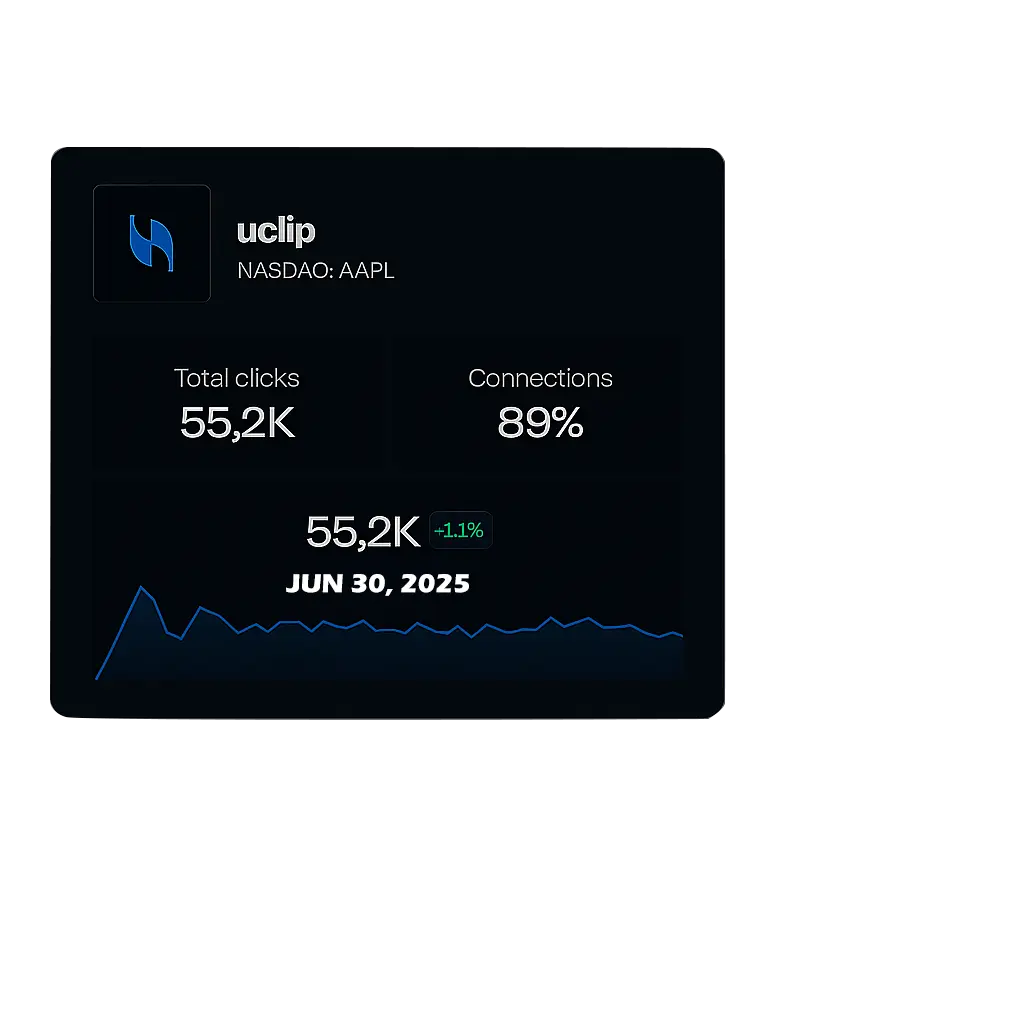
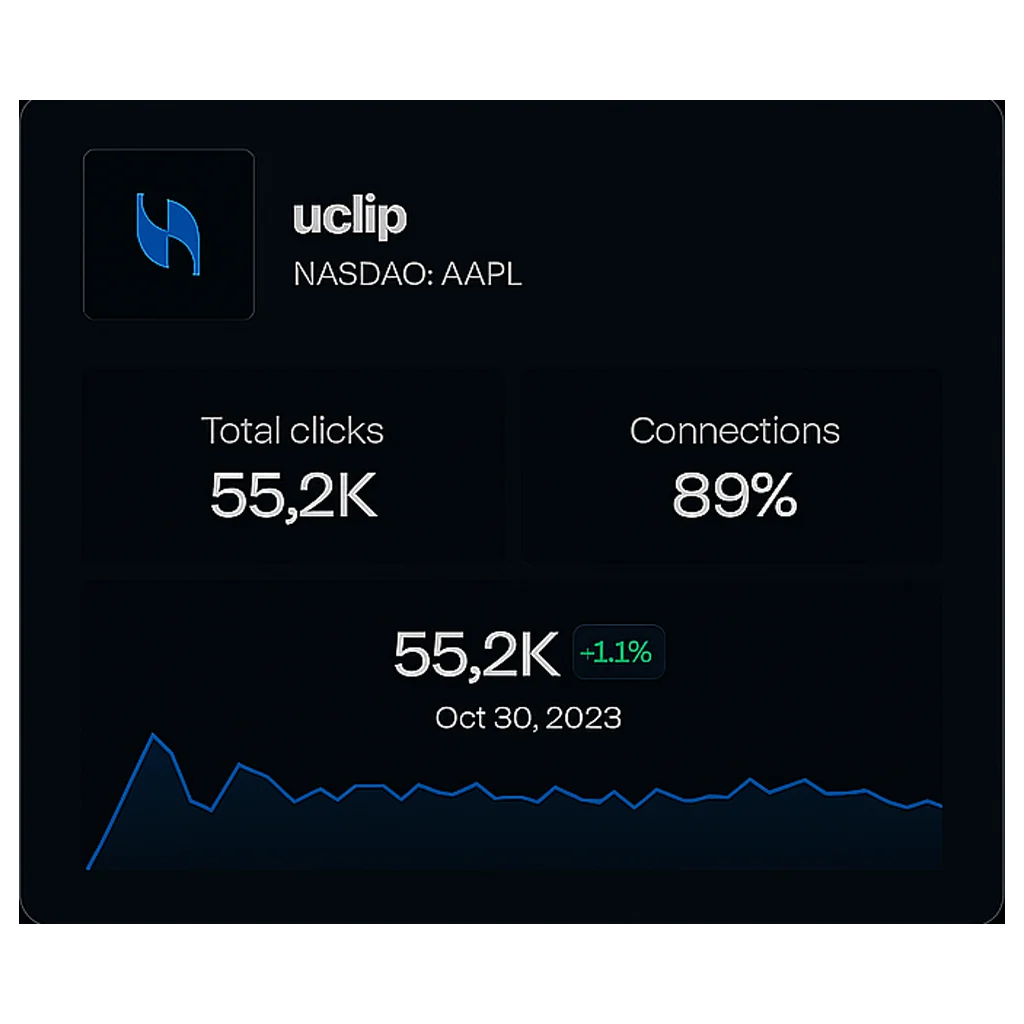
add new infoblock

diff --git a/client/src/components/HeroPage.jsx b/client/src/components/HeroPage.jsx
@@ -2,11 +2,9 @@ import React, { useRef } from "react";
 import { useGSAP } from "@gsap/react";
 import gsap from "gsap";
 import Button from "./Button";
-import { IoExtensionPuzzle, IoQrCode } from "react-icons/io5";
-import { IoMdLink } from "react-icons/io";
-import { TfiStatsUp } from "react-icons/tfi";
-import analyticsImage from "../assets/imgs/stats.webp";
 import FeatureBlocks from "./FeatureBlocks";
+import InfoBlock from "./InfoBlock";
+import Overview from "./Overview";
 
 const HeroPage = () => {
   gsap.registerPlugin(useGSAP);
@@ -60,7 +58,7 @@ const HeroPage = () => {
   }, []);
 
   return (
-    <main className="bg-black min-h-screen">
+    <main className="bg-black min-h-screen w-full flex flex-col gap-5">
       <div
         ref={pointerRef}
         className="fixed w-[20px] h-[20px] rounded-full bg-white pointer-events-none z-50 opacity-0 mix-blend-difference"
@@ -84,74 +82,10 @@ const HeroPage = () => {
           <Button>Get Started</Button>
         </div>
       </section>
-      <section className="flex justify-center p-9 w-full">
-        <div className="lg:w-[50%] md:w-[80%] w-full flex p-5 text-white flex-col items-center bg-zinc-800 rounded">
-          <h2 className="flex flex-col w-full items-center text-2xl md:text-4xl font-bold mt-9">
-            <span>Explore features</span>
-            <span className="inline-flex gap-2 text-nowrap">
-              for more <IoExtensionPuzzle color="#a1e231" /> efficiency
-            </span>
-          </h2>
-          <p className="text-md mt-2 text-zinc-400">
-            Use uclip to save your work
-          </p>
 
-          <div className="flex items-center justify-center mt-5 gap-2">
-            <div className="flex p-1 gap-1 pr-3 items-center bg-amber-500 rounded-full capitalize">
-              <span className="p-1 rounded-full bg-white text-amber-500">
-                <IoMdLink size={12} />
-              </span>
-              <span className="md:inline-block hidden text-xs">
-                short links
-              </span>
-              <span className="inline-block md:hidden text-xs">create</span>
-            </div>
-
-            <div className="flex p-1 gap-1 pr-3 items-center bg-transparent border border-amber-500 rounded-full capitalize">
-              <span className="p-1 rounded-full bg-white text-amber-500">
-                <IoQrCode size={12} />
-              </span>
-              <span className="md:inline-block hidden text-xs">
-                short links
-              </span>
-              <span className="inline-block md:hidden text-xs">share</span>
-            </div>
-
-            <div className="flex p-1 gap-1 pr-3 items-center bg-transparent border border-amber-500 rounded-full capitalize">
-              <span className="p-1 rounded-full bg-white text-amber-500">
-                <TfiStatsUp size={12} />
-              </span>
-              <span className="md:inline-block hidden text-xs">
-                manage your links
-              </span>
-              <span className="inline-block md:hidden text-xs">analyze</span>
-            </div>
-          </div>
-
-          <div className="mt-18 w-[80%] flex justify-between">
-            <div className="mx-auto">
-              <div className="my-auto">
-                <div className="text-3xl space-x-2">
-                  <span className="text-primary">Campaign</span>
-                  <span className="text-amber-500">Monitoring</span> &
-                  <span className="text-violet-500"> Analytics</span>
-                </div>
-                <p className="text-sm text-zinc-400 mt-5 mb-9">Learn from your links and build better digital campaigns</p>
-                <Button>Start for free</Button>
-              </div>
-            </div>
-            <div className="items-center w-[300px] ">
-              <img
-                src={analyticsImage}
-                className="w-full h-full object-cover rounded"
-                alt=""
-              />
-            </div>
-          </div>
-        </div>
-      </section>
-
+      <Overview />
       <FeatureBlocks />
+      <InfoBlock />
     </main>
   );
 };

diff --git a/client/src/components/Overview.jsx b/client/src/components/Overview.jsx
@@ -1,0 +1,76 @@
+import React from "react";
+import { IoExtensionPuzzle, IoQrCode } from "react-icons/io5";
+import { IoMdLink } from "react-icons/io";
+import { TfiStatsUp } from "react-icons/tfi";
+import analyticsImage from "../assets/imgs/stats.webp";
+import Button from "./Button";
+const Overview = () => {
+  return (
+    <section className="flex justify-center p-9 w-full">
+      <div className="w-full md:w-[1000px] flex p-5 text-white flex-col items-center bg-zinc-900 rounded">
+        <h2 className="flex flex-col w-full items-center text-2xl md:text-4xl font-bold mt-9">
+          <span>Explore features</span>
+          <span className="inline-flex gap-2 text-nowrap">
+            for more <IoExtensionPuzzle color="#a1e231" /> efficiency
+          </span>
+        </h2>
+        <p className="text-md mt-2 text-zinc-400">
+          Use uclip to save your work
+        </p>
+
+        <div className="flex items-center justify-center mt-5 gap-2">
+          <div className="flex p-1 gap-1 pr-3 items-center bg-amber-500 rounded-full capitalize">
+            <span className="p-1 rounded-full bg-white text-amber-500">
+              <IoMdLink size={12} />
+            </span>
+            <span className="md:inline-block hidden text-xs">short links</span>
+            <span className="inline-block md:hidden text-xs">create</span>
+          </div>
+
+          <div className="flex p-1 gap-1 pr-3 items-center bg-transparent border border-amber-500 rounded-full capitalize">
+            <span className="p-1 rounded-full bg-white text-amber-500">
+              <IoQrCode size={12} />
+            </span>
+            <span className="md:inline-block hidden text-xs">short links</span>
+            <span className="inline-block md:hidden text-xs">share</span>
+          </div>
+
+          <div className="flex p-1 gap-1 pr-3 items-center bg-transparent border border-amber-500 rounded-full capitalize">
+            <span className="p-1 rounded-full bg-white text-amber-500">
+              <TfiStatsUp size={12} />
+            </span>
+            <span className="md:inline-block hidden text-xs">
+              manage your links
+            </span>
+            <span className="inline-block md:hidden text-xs">analyze</span>
+          </div>
+        </div>
+
+        <div className="mt-18 w-[80%] flex justify-between">
+          <div className="mx-auto">
+            <div className="my-auto">
+              <div className="text-3xl space-x-2">
+                <span className="text-primary">Campaign</span>
+                <span className="text-amber-500">Monitoring</span> &
+                <span className="text-violet-500"> Analytics</span>
+              </div>
+              <p className="text-sm text-zinc-400 mt-5 mb-9">
+                Learn from your links and build better digital campaigns
+              </p>
+              <Button>Start for free</Button>
+            </div>
+          </div>
+          <div className="items-center w-[300px] ">
+            <img
+              src={analyticsImage}
+              className="w-full h-full object-cover rounded hidden md:block"
+              alt=""
+            />
+          </div>
+        </div>
+      </div>
+    </section>
+  );
+};
+
+export default Overview;

diff --git a/client/src/components/InfoBlock.jsx b/client/src/components/InfoBlock.jsx
@@ -1,0 +1,34 @@
+import splash from "../assets/imgs/splash.png";
+import Stats from "../assets/imgs/stats2.webp";
+import Button from "./Button";
+import { useNavigate } from "react-router-dom";
+const InfoBlock = () => {
+  const navigate = useNavigate();
+  return (
+    <section className="flex my-5 justify-center bg-black py-5">
+      <div className="relative h-auto lg:min-w-[1000px] lg:w-[50%] bg-zinc-900 rounded w-[95%] flex items-center justify-center">
+        <div className="w-full flex items-center md:flex-row flex-col md:h-[400px] p-5 md:px-10 gap-5">
+          <div className="w-1/2 h-full">
+            <img src={Stats} className="w-full h-full object-cover" alt="" />
+          </div>
+          <div className="h-full p-5 flex justify-center items-start text-white flex-col">
+            <h4 className="text-4xl">
+              See how can <b>UCLIP</b>
+            </h4>
+            <h4 className="text-4xl text-blue-500">help your business</h4>
+            <p className="mt-2 mb-5 text-sm text-justify text-zinc-400">
+              All the products you need to build brand connections, manage links
+              and QR Codes, and connect with audiences everywhere in a single
+              unified platform.
+            </p>
+            <Button color="#fff" onClick={() => navigate("/login")}>
+              Start for free
+            </Button>
+          </div>
+        </div>
+      </div>
+    </section>
+  );
+};
+
+export default InfoBlock;

diff --git a/client/src/components/StatsBlock.jsx b/client/src/components/StatsBlock.jsx
@@ -4,14 +4,14 @@ const StatsBlock = ({
   icon, title, tagline
 }) => {
   return (
-    <div className="w-[300px] h-[300px] rounded-lg flex gap-5 p-5 flex-col justify-center items-center border border-zinc-800 bg-zinc-900">
-      <h5 className="text-white text-2xl">{title}</h5>
+    <div className="w-[270px] h-[270px] rounded-lg flex gap-5 p-5 flex-col justify-center items-center border border-zinc-800 bg-zinc-900">
+      <h5 className="text-white text-xl">{title}</h5>
       <div className="relative bg-black w-[100px] h-[100px]">
         <div className="absolute w-full h-full grid grid-cols-4 gap-0.5 p-0.1">
           {Array.from({ length: 16 }).map((_, idx) => (
             <div
               key={idx}
-              className="text-center my-auto bg-zinc-950 w-[22px] h-[22px]"
+              className="text-center my-auto bg-zinc-950 w-[20px] h-[20px]"
             ></div>
           ))}
         </div>

diff --git a/client/src/components/Button.jsx b/client/src/components/Button.jsx
@@ -2,12 +2,13 @@ import React from "react";
 
 const Button = ({
   variant = "default",
-  color = "white",
   children,
   bolded = "false",
+  onClick
 }) => {
   return (
     <button
+      onClick={onClick}
       className={`
          cursor-pointer p-[2px] hover:bg-primary/80 md:text-md text-xs ${
           variant === "default"
@@ -18,7 +19,6 @@ const Button = ({
             ? "rounded-full glowy "
             : ""
         }
-
         ${bolded && "font-bold"}
     `}
     >

diff --git a/client/src/components/FeatureBlocks.jsx b/client/src/components/FeatureBlocks.jsx
@@ -24,7 +24,7 @@ const FeatureBlocks = () => {
   ];
 
   return (
-    <section className="flex justify-center gap-3 h-[500px] flex-col items-center">
+    <section className="flex justify-center gap-3 min-h-[500px] flex-col items-center">
         <h2 className="my-5 text-5xl text-amber-500 font-bold">
             What we offers
         </h2>
